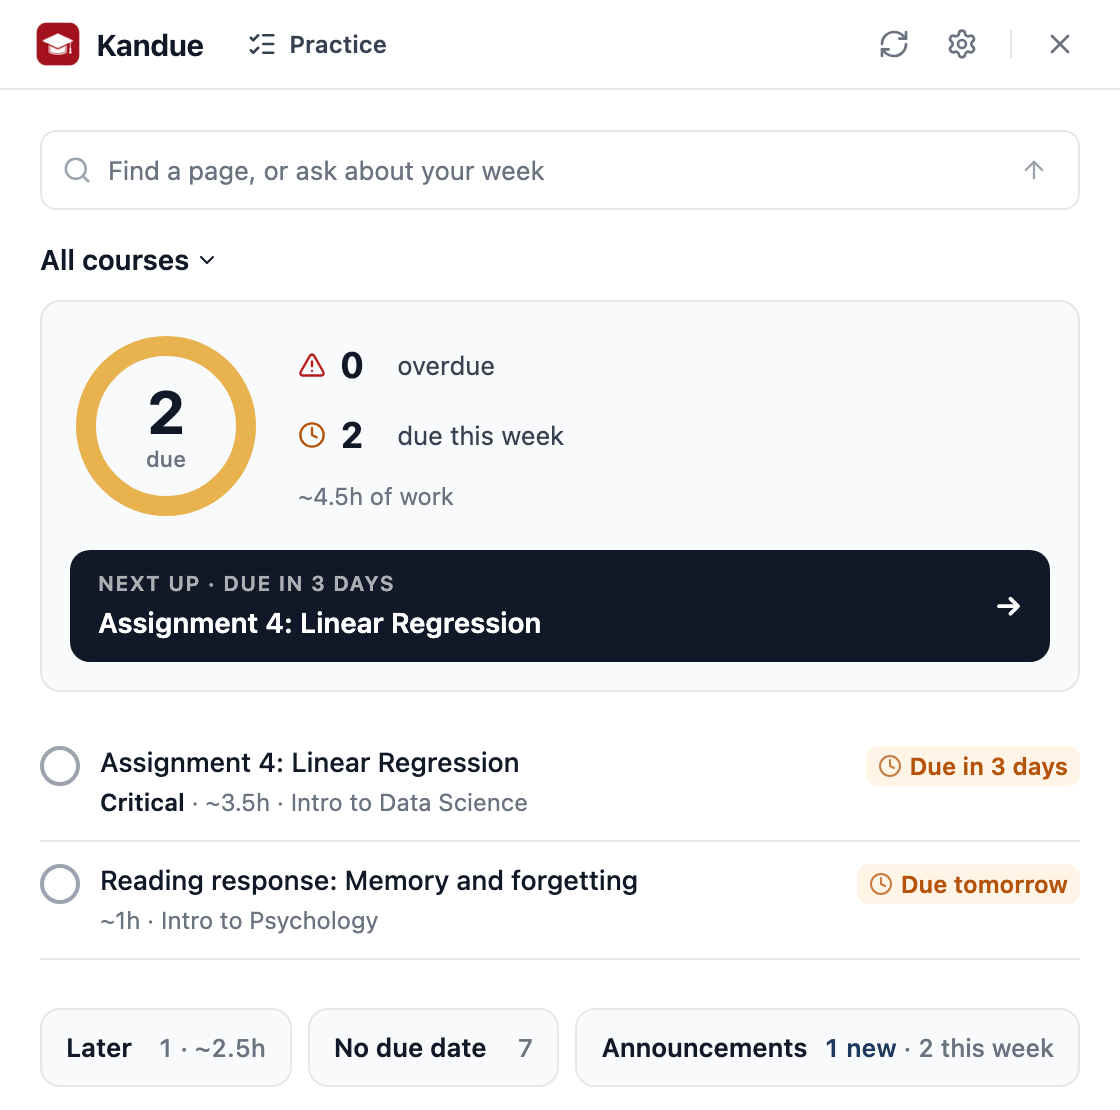
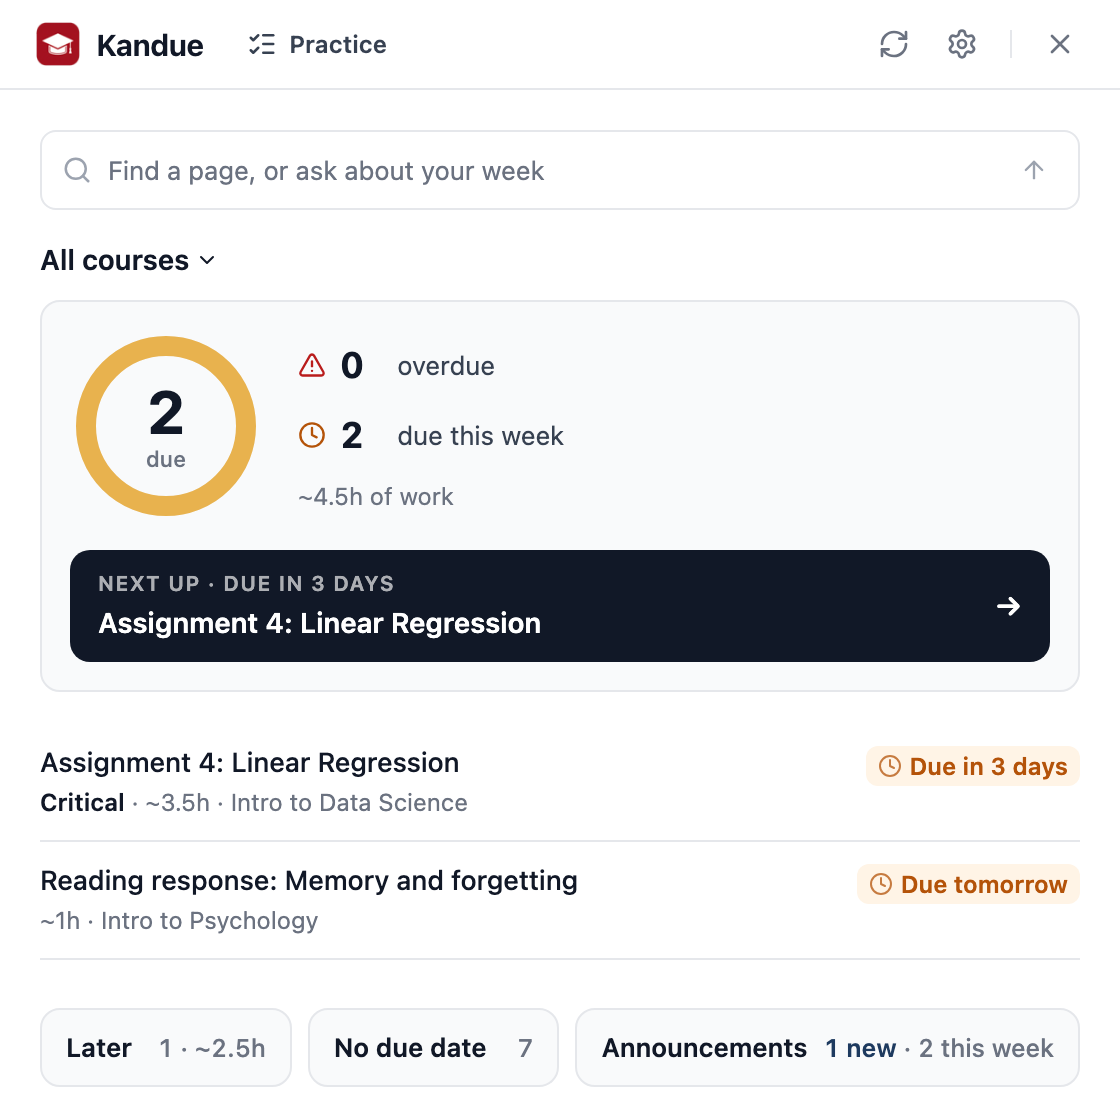
Students screenshots without the row checkbox

Changed region(s): [[0.0312, 0.7658, 0.5625, 0.8577], [0.0312, 0.6739, 0.4688, 0.7351]]

diff --git a/docs/index.html b/docs/index.html
@@ -382,7 +382,7 @@
                 <div class="shot-feature">
                     <!-- ?v= is the edge cache key (see the brand mark): these files were
                          replaced in place, and Cloudflare holds them for four hours. -->
-                    <div class="shot-media"><img src="ss1.png?v=10" width="1120" height="1110" alt="The Kandue panel under a bar reading &quot;Find a page, or ask about your week&quot;: a ring of 2 due, 0 overdue and 2 due this week at about 4.5 hours of work, a Next up button naming Assignment 4: Linear Regression, due in 3 days, then that assignment marked Critical and a reading response, each ending in a chip saying when it is due, and buttons for Later, No due date and Announcements with 1 new" loading="lazy" decoding="async"></div>
+                    <div class="shot-media"><img src="ss1.png?v=11" width="1120" height="1110" alt="The Kandue panel under a bar reading &quot;Find a page, or ask about your week&quot;: a ring of 2 due, 0 overdue and 2 due this week at about 4.5 hours of work, a Next up button naming Assignment 4: Linear Regression, due in 3 days, then that assignment marked Critical and a reading response, each ending in a chip saying when it is due, and buttons for Later, No due date and Announcements with 1 new" loading="lazy" decoding="async"></div>
                     <div class="shot-copy">
                         <h4>Everything due, in one place</h4>
                         <p>Overdue, due today and coming up, counted across every course, with this week's announcements above the list, each one carrying the colour of the course it is about.</p>
@@ -390,7 +390,7 @@
                 </div>
 
                 <div class="shot-feature">
-                    <div class="shot-media"><img src="ss-priorities.png?v=10" width="560" height="592" alt="The Kandue assignment queue under a bar reading &quot;Find a page, or ask about your week&quot;: a ring of 3 due, 1 overdue and 2 due this week, a Next up button naming the lab that is 1 day late, then that lab under Overdue with a red 1 day late chip, and a midterm exam and a reading under This week with amber Due in 6 days and Due in 5 days chips" loading="lazy" decoding="async"></div>
+                    <div class="shot-media"><img src="ss-priorities.png?v=11" width="560" height="592" alt="The Kandue assignment queue under a bar reading &quot;Find a page, or ask about your week&quot;: a ring of 3 due, 1 overdue and 2 due this week, a Next up button naming the lab that is 1 day late, then that lab under Overdue with a red 1 day late chip, and a midterm exam and a reading under This week with amber Due in 6 days and Due in 5 days chips" loading="lazy" decoding="async"></div>
                     <div class="shot-copy">
                         <h4>Know what to start</h4>
                         <p>Your week ranked by what actually matters first, each task with an hour estimate and one line on why it's there. Tell it how long something really took and the estimates adjust to you.</p>
